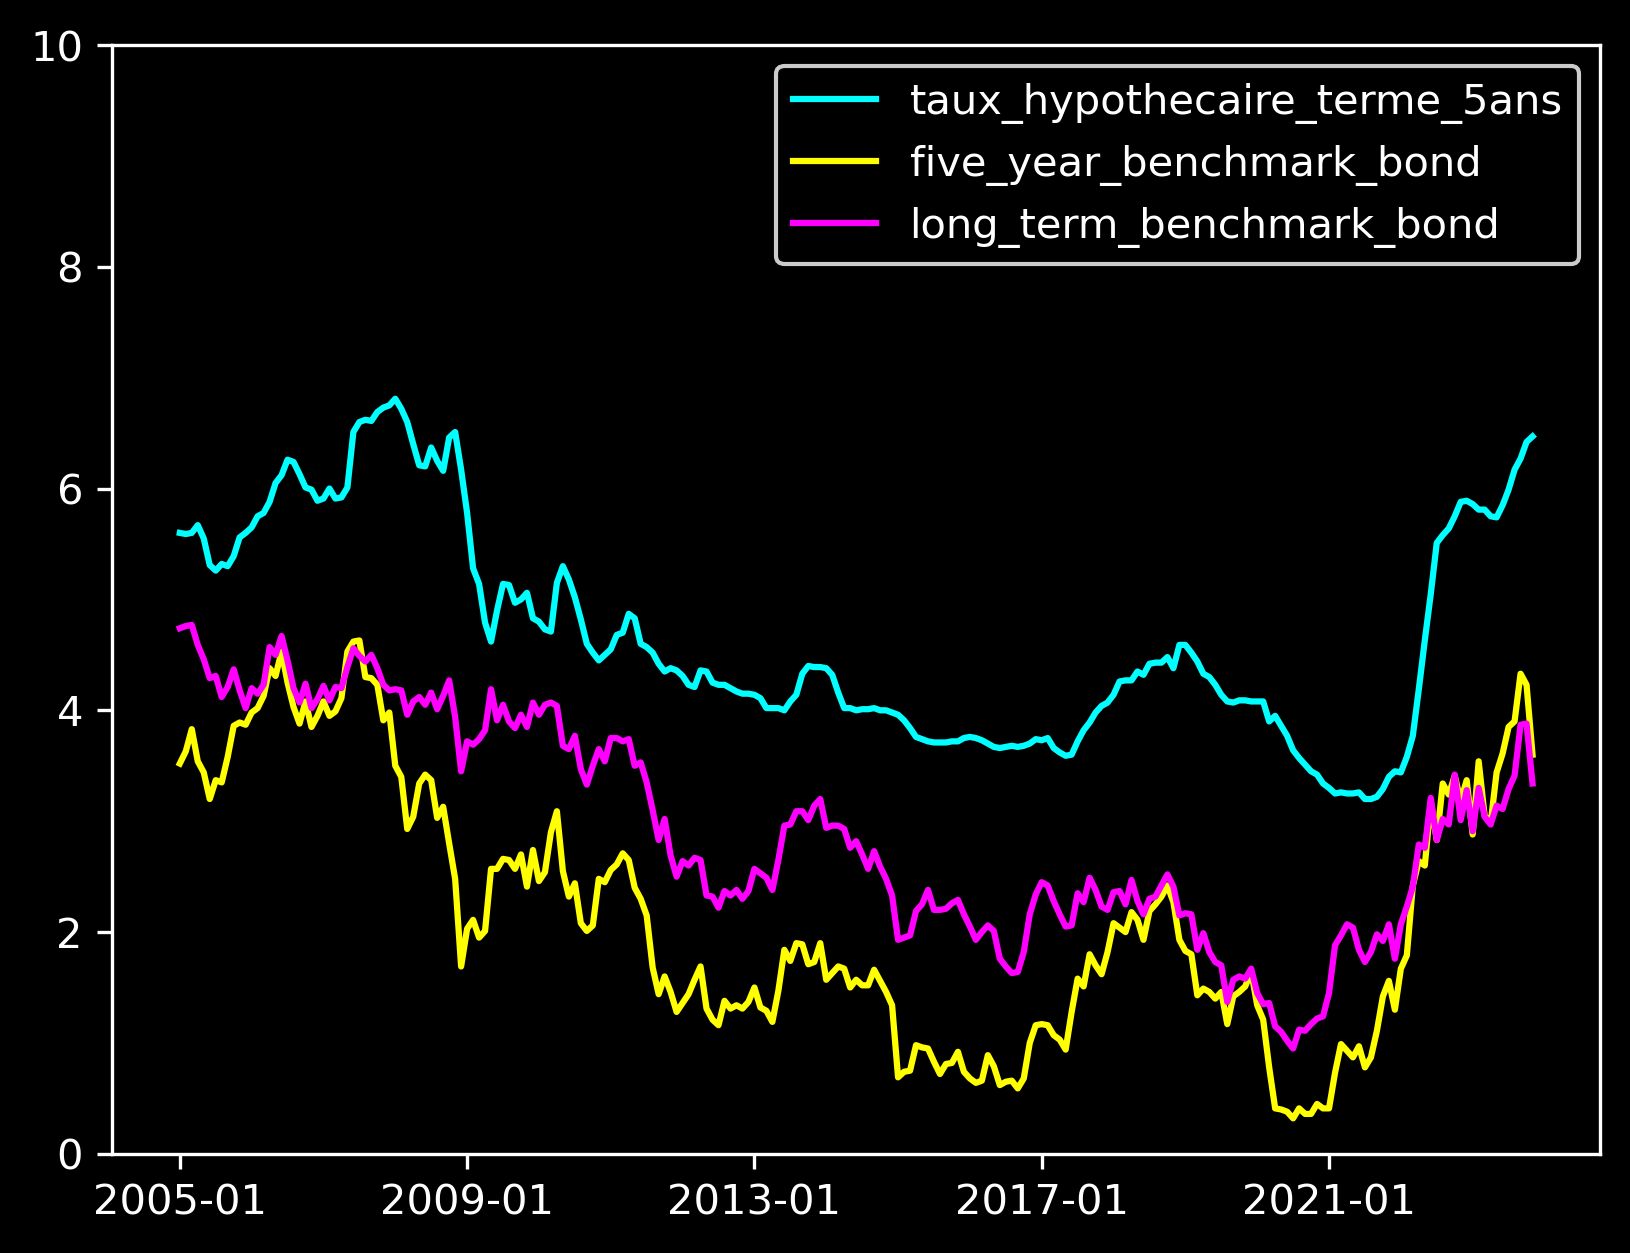
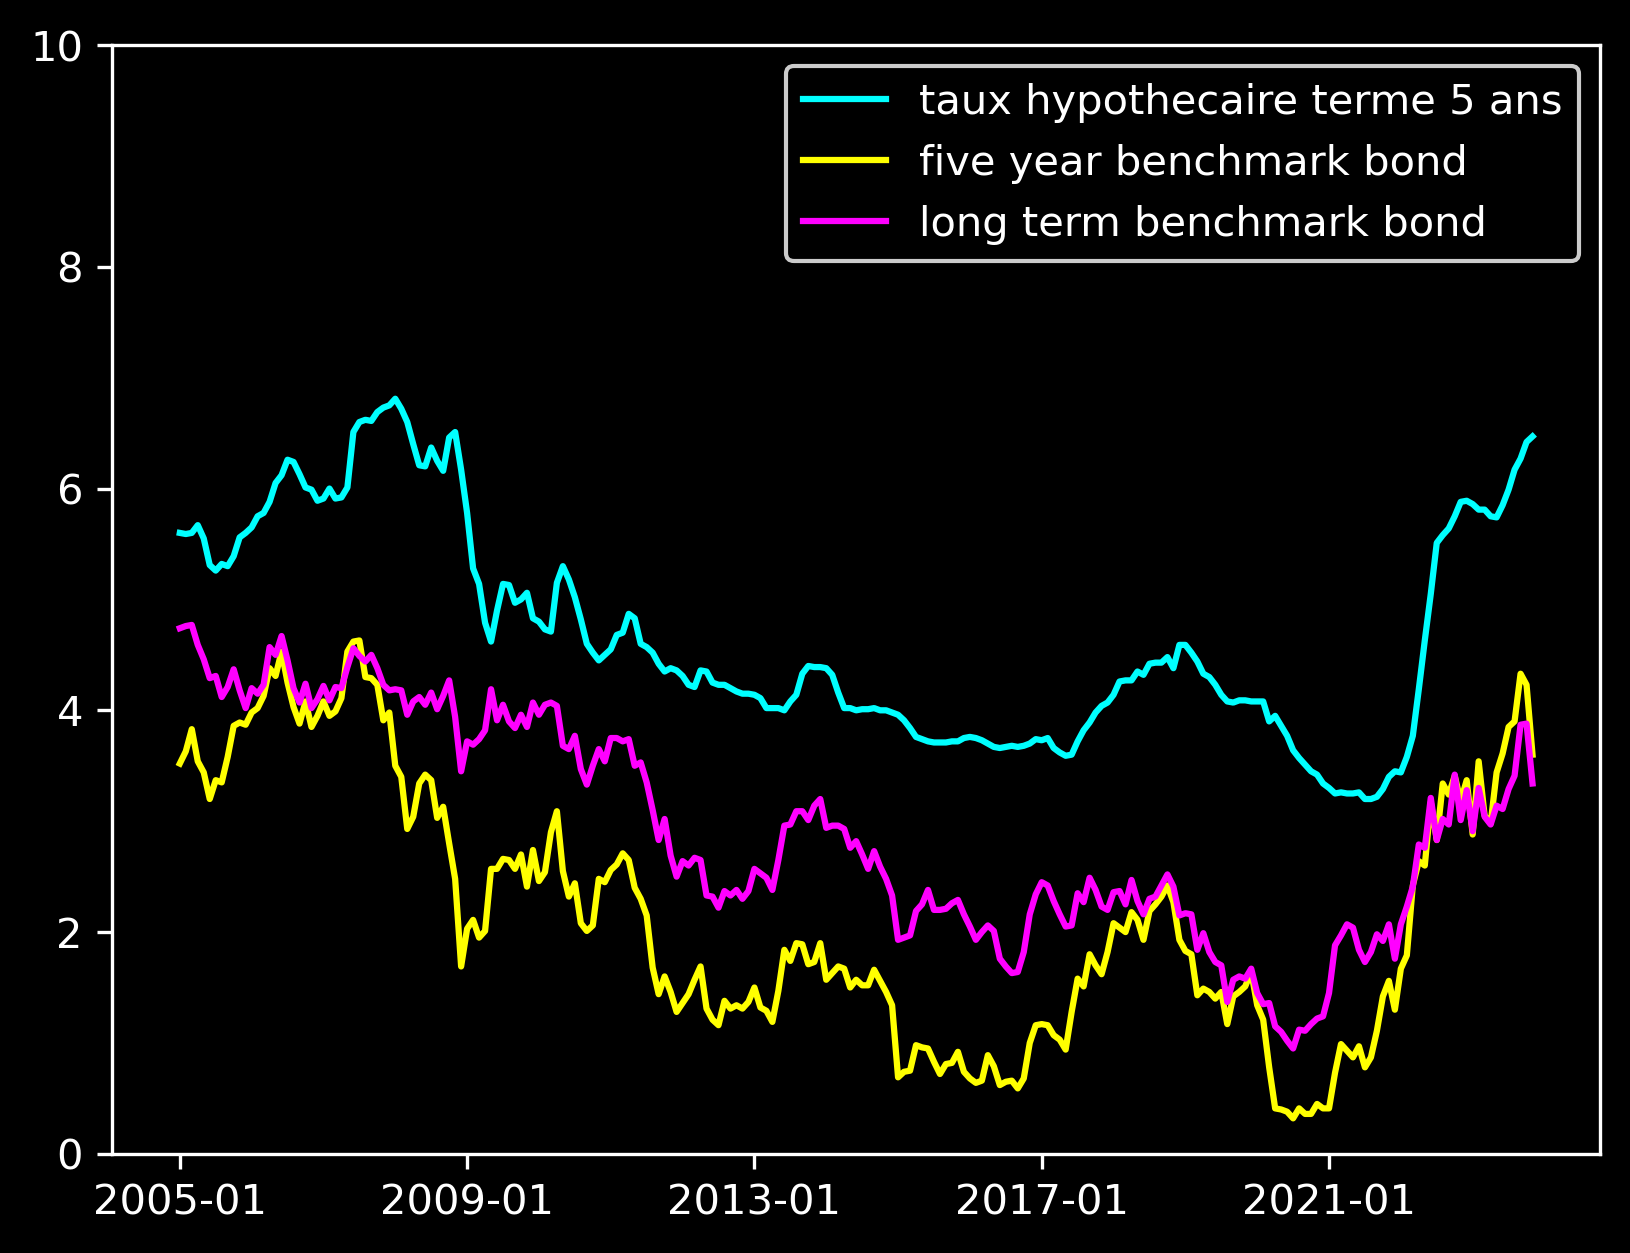
fix graph and create function

Changed region(s): [[0.4601, 0.0623, 0.9509, 0.2179]]

diff --git a/data_and_cleaning/analyse_naive.py b/data_and_cleaning/analyse_naive.py
@@ -8,31 +8,33 @@ df = pd.read_csv("data_and_cleaning\cleaned_data\joined_data.csv", delimiter=','
 print(df.columns)
 
 
+def plot_interest_rate():
+    # taux_hypothecaire_terme_5ans over time, and take out the nulls
+    df_taux_hypothecaire_terme_5ans = df[['CalendarMonth', 'taux_hypothecaire_terme_5ans']]
+    df_taux_hypothecaire_terme_5ans = df_taux_hypothecaire_terme_5ans.dropna().drop_duplicates()
+    df_interest = df[['CalendarMonth', "interest_rate_value", "rate_type"]]
+    # print all unique values in df_interest['rate_type']
+    print(df_interest['rate_type'].unique())
+    long_term_benchmark_bond = df_interest[df_interest['rate_type'] == "Selected Government of Canada benchmark bond yields: long term"].dropna().drop_duplicates()
+    five_year_benchmark_bond = df_interest[df_interest['rate_type'] == "Selected Government of Canada benchmark bond yields: 5 year"].dropna().drop_duplicates()
+    # set the style to dark background
+    plt.style.use('dark_background')
+    # plot the data from df_taux_hypothecaire_terme_5ans
+    plt.plot(df_taux_hypothecaire_terme_5ans['CalendarMonth'], df_taux_hypothecaire_terme_5ans['taux_hypothecaire_terme_5ans'], label='taux hypothecaire terme 5 ans', color='cyan')
+    # plot the data from five_year_benchmark_bond
+    plt.plot(five_year_benchmark_bond['CalendarMonth'], five_year_benchmark_bond['interest_rate_value'], label='five year benchmark bond', color='yellow')
+    # plot the data from long_term_benchmark_bond
+    plt.plot(long_term_benchmark_bond['CalendarMonth'], long_term_benchmark_bond['interest_rate_value'], label='long term benchmark bond', color='magenta')
+    plt.ylim(0, 10)  # set the limits of y-axis from 0 to 10
+    # get the current locations and labels
+    locs, labels = plt.xticks()
+    # set labels to display only one out of every 24 months and rotate them vertically
+    plt.xticks(locs[::48], df_taux_hypothecaire_terme_5ans['CalendarMonth'][::48], color='white')
+    # set the color of y-axis labels to white
+    plt.yticks(color='white')
+    # add a legend with white text
+    plt.legend(facecolor='black', edgecolor='white', labelcolor='white')
+    # display the plot
+    return plt.savefig('interest_rates.png', dpi=300, bbox_inches='tight')  
 
-# taux_hypothecaire_terme_5ans over time, and take out the nulls
-df_taux_hypothecaire_terme_5ans = df[['CalendarMonth', 'taux_hypothecaire_terme_5ans']]
-df_taux_hypothecaire_terme_5ans = df_taux_hypothecaire_terme_5ans.dropna().drop_duplicates()
-df_interest = df[['CalendarMonth', "interest_rate_value", "rate_type"]]
-# print all unique values in df_interest['rate_type']
-print(df_interest['rate_type'].unique())
-long_term_benchmark_bond = df_interest[df_interest['rate_type'] == "Selected Government of Canada benchmark bond yields: long term"].dropna().drop_duplicates()
-five_year_benchmark_bond = df_interest[df_interest['rate_type'] == "Selected Government of Canada benchmark bond yields: 5 year"].dropna().drop_duplicates()
-# set the style to dark background
-plt.style.use('dark_background')
-# plot the data from df_taux_hypothecaire_terme_5ans
-plt.plot(df_taux_hypothecaire_terme_5ans['CalendarMonth'], df_taux_hypothecaire_terme_5ans['taux_hypothecaire_terme_5ans'], label='taux_hypothecaire_terme_5ans', color='cyan')
-# plot the data from five_year_benchmark_bond
-plt.plot(five_year_benchmark_bond['CalendarMonth'], five_year_benchmark_bond['interest_rate_value'], label='five_year_benchmark_bond', color='yellow')
-# plot the data from long_term_benchmark_bond
-plt.plot(long_term_benchmark_bond['CalendarMonth'], long_term_benchmark_bond['interest_rate_value'], label='long_term_benchmark_bond', color='magenta')
-plt.ylim(0, 10)  # set the limits of y-axis from 0 to 10
-# get the current locations and labels
-locs, labels = plt.xticks()
-# set labels to display only one out of every 24 months and rotate them vertically
-plt.xticks(locs[::48], df_taux_hypothecaire_terme_5ans['CalendarMonth'][::48], color='white')
-# set the color of y-axis labels to white
-plt.yticks(color='white')
-# add a legend with white text
-plt.legend(facecolor='black', edgecolor='white', labelcolor='white')
-# display the plot
-plt.savefig('interest_rates.png', dpi=300, bbox_inches='tight')
+plot_interest_rate()
